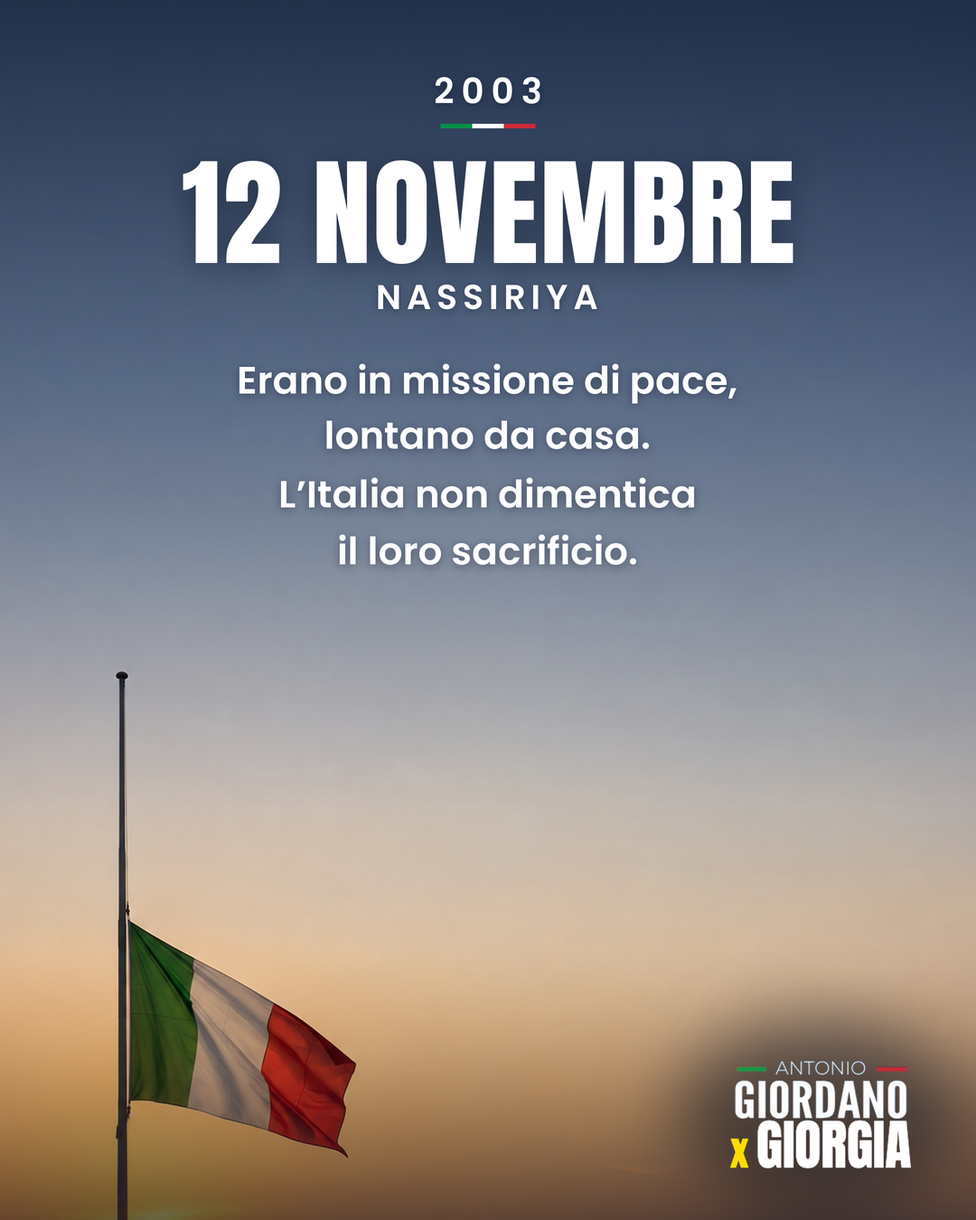
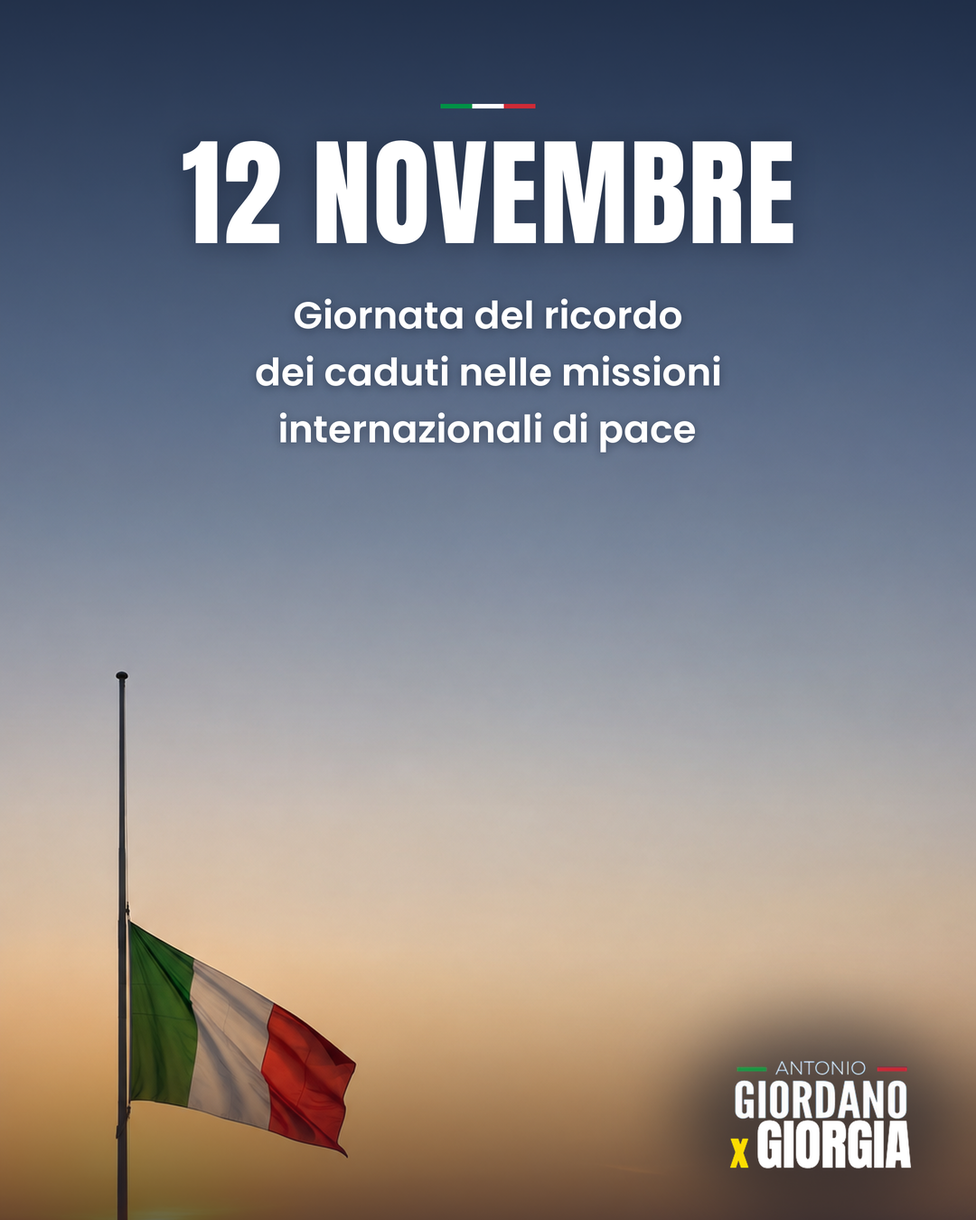
Piano video AG

Changed region(s): [[0.1833, 0.0622, 0.825, 0.4667]]

diff --git a/ag-piano/index.html b/ag-piano/index.html
@@ -86,7 +86,7 @@
 <script>
 const API = "https://script.google.com/macros/s/AKfycbzjr3jfim37stsWlkqhJ2VPJSxjqlUelqB06jXn0SmUQD_n9Tjvs1NOpkcq8gw_z12s/exec";
 const ETICHETTE = {pubblicato:'Pubblicato', pronto:'Pronto', montare:'Da montare', arrivo:'In arrivo', fermo:'Non si ripubblica', preparare:'Da preparare'};
-let stato = {"titolo": "Piano video · uno al giorno alle 13:00", "giorni": [{"titolo": "Mercoledì 11", "posti": [{"id": "me11-1", "ora": "13:00", "clip": {"titolo": "Socialismo USA · «quello che facciamo noi»", "nota": "Coffee Break, clip 5", "stato": "montare", "link": "https://drive.google.com/file/d/1HcMYuJhqfVNx6eUlo4WkuSOiRbY334NX/view"}}]}, {"titolo": "Giovedì 12", "posti": [{"id": "ev-1211", "ora": "Card", "clip": {"titolo": "Strage di Nassiriya · ricorrenza", "nota": "card pronte", "stato": "pronto", "bloccata": true, "evento": true, "link": "https://anteprima.italiatopweb.it/ag-file/ricorrenze/2026-11-12-nassiriya/", "cartella": "2026-11-12-nassiriya"}}, {"id": "gi12-1", "ora": "13:00", "clip": {"titolo": "Ricchi e populismo", "nota": "Corrente Alternata, GR1 04/11, clip 7 · audio", "stato": "pronto", "link": "https://drive.google.com/file/d/1x7e0mHgK9kqpWYvJAwjbsSDglceWnrHM/view"}}]}, {"titolo": "Venerdì 13", "posti": [{"id": "ve13-1", "ora": "13:00", "clip": null}]}, {"titolo": "Sabato 14", "posti": [{"id": "sa14-1", "ora": "13:00", "clip": null}]}, {"titolo": "In riserva", "riserva": true, "posti": [{"id": "r1", "ora": "", "clip": {"titolo": "Dopo il voto · Italia, USA e NATO", "nota": "Corrente Alternata, clip 5", "stato": "montare", "link": "https://drive.google.com/file/d/1t6I8kJFrz6hPRG6raNgOFs16UjAzwkPo/view"}}, {"id": "r2", "ora": "", "clip": {"titolo": "Vannacci · «a destra non l'abbiamo mai visto»", "nota": "Prisma, Radio Glox · audio · da valutare più avanti (Luca 07/11)", "stato": "montare", "link": "https://anteprima.italiatopweb.it/ag-file/prisma-vannacci-261104.mp3"}}, {"id": "r3", "ora": "", "clip": {"titolo": "Manovra · nella maggioranza si discute", "nota": "Prisma, Radio Glox · audio", "stato": "montare", "link": "https://drive.google.com/file/d/1HgAu0RjCXJuBtSsxsmDYyfv6Jon98R-A/view"}}, {"id": "r4", "ora": "", "clip": {"titolo": "Deformazione cognitiva", "nota": "Corrente Alternata · audio · dall'11/11, stesso tema di Guerra cognitiva", "stato": "montare", "link": "https://drive.google.com/file/d/1WDDEr0nzlL647d0kYZhlvtLduYlRIaiI/view"}}]}], "pubblicati": [{"titolo": "9 novembre 1989", "quando": "lun 9/11 · 14:01", "fb": "https://www.facebook.com/1154435890870280/posts/1160551210258748", "ig": "https://www.instagram.com/p/DfhZBx7lBKT/", "x": "https://x.com/Giordano__Ant/status/2119779268372660306"}, {"titolo": "Manovra · giovani e famiglie", "quando": "ven 6/11 · 14:09", "fb": "https://www.facebook.com/reel/1162848366253003", "ig": "https://www.instagram.com/reel/DfZsKx3nKq0/", "x": "https://x.com/Giordano__Ant/status/2118695122455916840"}, {"titolo": "Meloni · Le cose giuste nel momento giusto", "quando": "gio 5/11 · 10:05", "fb": "https://www.facebook.com/reel/1445057227816326", "ig": "https://www.instagram.com/reel/DfWqmNxnaz6/", "x": "https://x.com/Giordano__Ant/status/2118272431366209673"}, {"titolo": "Midterm USA · Cosa cambia per noi", "quando": "mer 4/11 · 17:55", "fb": "https://www.facebook.com/reel/2434864030253104", "ig": "https://www.instagram.com/reel/DfU7moID_1-/", "x": "https://x.com/Giordano__Ant/status/2118024507034083650"}, {"titolo": "Card 4 Novembre · Forze Armate", "quando": "mer 4/11 · 13:24", "fb": "https://www.facebook.com/1154435890870280/posts/1155160294131173", "ig": "https://www.instagram.com/p/DfUcReFDcfa/", "x": "https://x.com/Giordano__Ant/status/2117955550688444774"}, {"titolo": "Guerra cognitiva", "quando": "mer 4/11 · 10:38", "fb": "https://www.facebook.com/reel/1809075533746298/", "ig": "https://www.instagram.com/reel/DfUKutsghDZ/", "x": "https://x.com/Giordano__Ant/status/2117917504861315501"}, {"titolo": "Midterm (prima del voto)", "quando": "mar 3/11 · 18:30", "fb": "https://www.facebook.com/reel/1905529590880201/", "ig": "https://www.instagram.com/reel/DfSduWrgQ7_/", "x": "https://x.com/Giordano__Ant/status/2117678229246927253"}, {"titolo": "Riserve di gas", "quando": "mar 3/11 · 14:00", "fb": "https://www.facebook.com/reel/1151009277470797/", "ig": "https://www.instagram.com/reel/DfR8IrTkWat/", "x": "https://x.com/Giordano__Ant/status/2117606616744804792"}, {"titolo": "Patrimoniale", "quando": "lun 2/11 · 12:56", "fb": "https://www.facebook.com/reel/1839627413895111/", "ig": "https://www.instagram.com/reel/DfPQCNhjGkq/", "x": "https://x.com/Giordano__Ant/status/2117228622868034010"}], "versione": 36, "aggiornato": "2026-11-11T16:40:01.310Z", "ultimo": {"da": "r4", "a": "r3", "quando": "2026-11-11T16:30:44.798Z"}};
+let stato = {"titolo": "Piano video · uno al giorno alle 13:00", "giorni": [{"titolo": "Mercoledì 11", "posti": [{"id": "me11-1", "ora": "13:00", "clip": {"titolo": "Socialismo USA · «quello che facciamo noi»", "nota": "Coffee Break, clip 5", "stato": "montare", "link": "https://drive.google.com/file/d/1HcMYuJhqfVNx6eUlo4WkuSOiRbY334NX/view"}}]}, {"titolo": "Giovedì 12", "posti": [{"id": "ev-1211", "ora": "Card", "clip": {"titolo": "Strage di Nassiriya · ricorrenza", "nota": "card pronte", "stato": "pronto", "bloccata": true, "evento": true, "link": "https://anteprima.italiatopweb.it/ag-file/ricorrenze/2026-11-12-nassiriya/", "cartella": "2026-11-12-nassiriya"}}, {"id": "gi12-1", "ora": "13:00", "clip": null}]}, {"titolo": "Venerdì 13", "posti": [{"id": "ve13-1", "ora": "13:00", "clip": null}]}, {"titolo": "Sabato 14", "posti": [{"id": "sa14-1", "ora": "13:00", "clip": null}]}, {"titolo": "In riserva", "riserva": true, "posti": [{"id": "r1", "ora": "", "clip": {"titolo": "Dopo il voto · Italia, USA e NATO", "nota": "Corrente Alternata, clip 5", "stato": "montare", "link": "https://drive.google.com/file/d/1t6I8kJFrz6hPRG6raNgOFs16UjAzwkPo/view"}}, {"id": "r2", "ora": "", "clip": {"titolo": "Vannacci · «a destra non l'abbiamo mai visto»", "nota": "Prisma, Radio Glox · audio · da valutare più avanti (Luca 07/11)", "stato": "montare", "link": "https://anteprima.italiatopweb.it/ag-file/prisma-vannacci-261104.mp3"}}, {"id": "r3", "ora": "", "clip": {"titolo": "Manovra · nella maggioranza si discute", "nota": "Prisma, Radio Glox · audio", "stato": "montare", "link": "https://drive.google.com/file/d/1HgAu0RjCXJuBtSsxsmDYyfv6Jon98R-A/view"}}, {"id": "r4", "ora": "", "clip": {"titolo": "Deformazione cognitiva", "nota": "Corrente Alternata · audio · dall'11/11, stesso tema di Guerra cognitiva", "stato": "montare", "link": "https://drive.google.com/file/d/1WDDEr0nzlL647d0kYZhlvtLduYlRIaiI/view"}}]}], "pubblicati": [{"titolo": "9 novembre 1989", "quando": "lun 9/11 · 14:01", "fb": "https://www.facebook.com/1154435890870280/posts/1160551210258748", "ig": "https://www.instagram.com/p/DfhZBx7lBKT/", "x": "https://x.com/Giordano__Ant/status/2119779268372660306"}, {"titolo": "Manovra · giovani e famiglie", "quando": "ven 6/11 · 14:09", "fb": "https://www.facebook.com/reel/1162848366253003", "ig": "https://www.instagram.com/reel/DfZsKx3nKq0/", "x": "https://x.com/Giordano__Ant/status/2118695122455916840"}, {"titolo": "Meloni · Le cose giuste nel momento giusto", "quando": "gio 5/11 · 10:05", "fb": "https://www.facebook.com/reel/1445057227816326", "ig": "https://www.instagram.com/reel/DfWqmNxnaz6/", "x": "https://x.com/Giordano__Ant/status/2118272431366209673"}, {"titolo": "Midterm USA · Cosa cambia per noi", "quando": "mer 4/11 · 17:55", "fb": "https://www.facebook.com/reel/2434864030253104", "ig": "https://www.instagram.com/reel/DfU7moID_1-/", "x": "https://x.com/Giordano__Ant/status/2118024507034083650"}, {"titolo": "Card 4 Novembre · Forze Armate", "quando": "mer 4/11 · 13:24", "fb": "https://www.facebook.com/1154435890870280/posts/1155160294131173", "ig": "https://www.instagram.com/p/DfUcReFDcfa/", "x": "https://x.com/Giordano__Ant/status/2117955550688444774"}, {"titolo": "Guerra cognitiva", "quando": "mer 4/11 · 10:38", "fb": "https://www.facebook.com/reel/1809075533746298/", "ig": "https://www.instagram.com/reel/DfUKutsghDZ/", "x": "https://x.com/Giordano__Ant/status/2117917504861315501"}, {"titolo": "Midterm (prima del voto)", "quando": "mar 3/11 · 18:30", "fb": "https://www.facebook.com/reel/1905529590880201/", "ig": "https://www.instagram.com/reel/DfSduWrgQ7_/", "x": "https://x.com/Giordano__Ant/status/2117678229246927253"}, {"titolo": "Riserve di gas", "quando": "mar 3/11 · 14:00", "fb": "https://www.facebook.com/reel/1151009277470797/", "ig": "https://www.instagram.com/reel/DfR8IrTkWat/", "x": "https://x.com/Giordano__Ant/status/2117606616744804792"}, {"titolo": "Patrimoniale", "quando": "lun 2/11 · 12:56", "fb": "https://www.facebook.com/reel/1839627413895111/", "ig": "https://www.instagram.com/reel/DfPQCNhjGkq/", "x": "https://x.com/Giordano__Ant/status/2117228622868034010"}], "versione": 37, "aggiornato": "2026-11-11T16:58:10.560Z", "ultimo": {"da": "r4", "a": "r3", "quando": "2026-11-11T16:30:44.798Z"}};
 const TESTI = {"1klEdiMiUnjdyJhWDykBXf9HR2sEq2nfJ": "Senta, ma vediamo le conseguenze di quello che è successo oggi. Cambia qualcosa sullo scenario internazionale o per noi? Perché qualcuno prima ci chiedeva, ma adesso Trump cambierà atteggiamento ad esempio sulle guerre, sia sull'Iran che sull'Ucraina? Cioè, che succede concretamente? Perché qui tutti festeggiano. Io ieri leggevo un articolo di Politico, questa rivista online, insomma, diciamo non trampiana comunque, che diceva occhio a festeggiare, occhio a europei, a festeggiare per la vittoria dei democratici perché non è che cambierà granché.\nAnche in questo sono perfettamente d'accordo con lei e con Politico. Cioè, le elezioni americane hanno cambiato il Congresso, non è che cambiano il mondo. Trump resta Presidente fino a gennaio 2029, la politica estera resta nelle sue mani.\nLui stesso ha detto che può essere il Presidente del Veto anche se stamattina è stato molto più, come dire, ragionevole da questo punto di vista. Il tema è anche capire che cosa cambia per l'Italia e che cosa non cambia perché la Russia resta un predatore alle porte dell'Europa. Non è che cambia atteggiamento perché a Washington cambia la maggioranza.\nMosca non se ne frega niente dei risultati elettorali, ammesso e non concesso che non abbia avuto parte in questo. Guarda i rapporti di forza, guarda quanto siamo uniti, guarda quanto sappiamo difenderci. La guerra in Iran non si chiude col voto.\nDifficile per qualsiasi amministrazione che sia repubblicana o che sia democratica. Pesa sull'energia, sui prezzi, sul Mediterraneo e purtroppo per noi il Mediterraneo è casa nostra. E poi un'altra annotazione.\nChi pensa che un congresso democratico porti la pace fa un grosso errore perché se guardiamo la storia sono più le guerre aperte da Presidenti democratici di quelle aperte da Presidenti repubblicani. Quindi credo che i cambiamenti non ci saranno tanto nella sostanza, forse ci sarà qualche cambiamento nei toni.", "1DC28hnMYb3MkSSSIsZvdqfcP23fCIMd-": "Questo lo vedremo, anche se io ho visto già oggi Trump, insomma, che qualche... diciamo, non l'ha presa benissimo, cioè l'ha presa come uno che adesso si arrocca nella trincea, ha postato una foto di un cappellino rosso MAGA con scritto sopra Veto. Cioè, c'è il rischio di una radicalizzazione di Trump da questo punto di vista?\nPiù radicalizzato di quanto non fosse.\nNo, direi di no, è lo stesso Trump, è lo stesso Trump.\nOggi poi è particolarmente seccato, nervoso, credo che già sapesse dove si andava, però ricordiamoci che Trump è comunque un combattente, è quello che gli sparano nell'orecchio e dice fight, fight, fight. Da questo punto di vista, ecco, non mi preoccuperei del fatto che possa diventare più irascibile, che sarà comunque combattivo, sicuramente. Io penso che ci sarà una, come dire, un allentamento nei toni, perché poi qualche compromesso lo deve trovare, non può andare completamente contro il Congresso.", "1X7SISQDF3iCLM8yexoOGo2FyZCFK6EWm": "Qui ci sono tante incognite, ci sono delle letture però interessanti sui giornali italiani venendo al nostro lato. Repubblica oggi dice, parlando invece della questione russo-ucraina, mi fa sorridere perché c'è prima tutta una parte su Trump, in cui giustamente si rivarica la sconfitta, poi dopo c'è questo articolo, anche interessante per carità di Tommaso Ciriaco, che dice, vertici di pace su Kiev, ostilità di Parigi e gelo con Trump, così Meloni resta lontana dal tavolo. Allora io anche qui, facciamo capirci, con tutto quello che uno può pensare sulla guerra, però se Trump è il super cattivo e c'è gelo con Giorgia Meloni, allora ha fatto bene Meloni a prendere distanze, se Trump è un paria, uno tossico e quant'altro, allora va bene che la nostra Presidente del Consiglio metta un po' di spazio, invece no, invece si rimprovera l'assenza di un rapporto.\nCioè qui mi sembra che, Giordano giriamo sempre attorno agli stessi temi, cioè l'isolamento dell'Italia, comunque vada, noi siamo sempre quelli da.. isolati e non calcolati.\nChiaramente non è così, non lo siamo e siamo talmente non isolati che poi Meloni quando parla e rimprovera Trump lascia il segno, penso una per tutte, alla reazione all'attacco al Papa o alla reazione improvvisata sul tema di militari in Afghanistan che non avrebbero fatto il loro dovere. Meloni non lo manda a dire a nessuno.\nPoi c'è l'attitudine della persona. Trump è uno che s'alza la mattina e fa una cosa e il pomeriggio ne fa un'altra perché è nella sua natura, non perché sia cattiveria. Meloni è un leader riflessivo, pragmatico, sa di avere un grande potere di moral e soprattutto soft suasion.\nLo usa con le capacità di una persona che si è trovata a fare il capo del governo giovanissima, con una crescita vertiginosa, ha tratto gli insegnamenti da questa esperienza e oggi è un leader maturo che dice le cose giuste nel momento giusto, è sui tavoli su cui vale la pena di stare, non corre a mettere a sedersi su tutti i tavoli. Questo dovrebbe essere quello che noi dovremmo notare, avere un leader che non sta lì a correre per trovare un posticino in ogni tavolo, ma magari diventa il leader che promuove, dirige e presiede la riunione delle Nazioni Europee che vogliono delle decisioni diverse sul tavolo del Consiglio europeo.", "1HcMYuJhqfVNx6eUlo4WkuSOiRbY334NX": "Cosa vuol dire il socialismo in America? Perché poi non è proprio la stessa cosa.\nHa un'accezione un po' diversa forse da quella europea.\nL'importante è sottolinearlo.\nVuol dire semplicemente fare molta più attenzione, mettere molto più l'accento sulle condizioni di chi sta peggio. E quindi, come diceva prima Lia Quartapelle, a preoccuparsi delle soluzioni tipo gli asili, tipo i trasporti, tipo gli affitti. Queste cose così pragmatiche di cui per tanto tempo tutto il consesso democratico si era un po' dimenticato.\nCioè quello che facciamo noi in pratica, con la Finanziaria.\nDice Giordano, quello che facciamo noi al Governo.\nGli affitti, i giovani, le famiglie. Quello che facciamo noi.\nPossiamo discuterne\nAllora non è socialismo.", "1neHQFR6Z3BcoS3G2aM8lRp03fYhDdQpO": "Beh molto bello Talarico ha usato Davide contro Golia, si è messo nei panni di Davide e dice voi siete state la mia fionda, cioè è un discorso da predicatore, in effetti lui da lì viene e anche quando parla dell'amore non è generico amore, è appunto ama il prossimo tuo e dice una cosa interessante, con l'odio non si va da nessuna parte. poi ovviamente saranno slogan come sono slogan tutti qua Parole, per carità. Però non è che la sinistra in questi anni, quella americana, non abbia odiato. Anche lì forse si sono resi conto che i discorsi già da quest'estate, con il dibattito sull'UOC, che quei discorsi lì non funzionano, no? Sono d'accordo con lei, ma anche questa però divisione, cioè quello l'1%, la gente non capisce questa distinzione. Non è che odia solo Musk. comincerà a dodiare Tutti quelli che stanno bene economicamente, che sono la radice del successo degli Stati Uniti. Il benessere globale, la capacità degli Stati Uniti fa parte di tutte queste persone che ce l'hanno fatta in un sistema che ammira chi ce l'ha fatta. Se adesso partiamo col criterio che essere diventati ricchi è un peccato, e questo mi è sembrato un po' il taglio di Tararigo stamattina, ho dei seri dubbi per quella che può essere Non è che tu togli i Silicon Valley perché hanno vinto i democratici. E l'altro punto, non ho sentito una cosa concreta. E questo è l'unico elemento che accomuna i democratici con le nostre sinistre. Non ho sentito un ragionamento concreto. Cioè, come faccio a risolvere il problema del bilancio? Lo risolvo perché userò dei concimi migliori? Non ho sentito un ragionamento concreto. Non ho sentito niente di tutto questo e queste cose mi fanno sempre un po' paura. Quando un politico è così generico si chiama populismo. Sappiamo i danni che fa.", "1t6I8kJFrz6hPRG6raNgOFs16UjAzwkPo": "Ecco, ecco, io ho la sensazione che a questo proposito di fatto andiamo avanti come prima. Cioè, io leggo anche qui di nuovo un titolo di Repubblica. Stati Uniti la notte della rivincita della democrazia.\nVabbè, ok, però da domani mattina per noi cosa cambia? Niente.\nNo, non cambia niente. Non è che domani mattina l'America ricomincia a fare, a gestire la difesa europea.\nRicordiamoci che il primo a dire che gli europei erano degli scrocconi da questo punto è stato Obama. Io credo che noi abbiamo riaffermato un principio chiaro. Se la tua difesa la paga qualcun altro, poi non ti devi offendere se quell'altro vuole mettere, vuole venire a casa tua senza, e dettare regole.\nNoi non siamo contro l'America che sia democratica, che sia repubblicana. Saremo insieme all'America, saremo dentro la NATO. I toni con cui i democratici potrebbero rilanciare il tema della NATO non saranno poi comunque così lontani da quelli di Trump.\nPerché la verità è che loro sfrutteranno il fatto che Trump ci ha messo la faccia ed è stato diciamo molto assertivo, ma non è che domani mattina i democratici dicono ok, abbiamo scherzato, per quanto riguarda la NATO non è più il 5%, facciamo l'1 e mezzo. Non esiste questo percorso. In più, il problema che hanno loro con la Cina non è che cambia se invece di Trump con il Congresso repubblicano è Trump con il Congresso democratico.\nE ricordiamoci che il problema della Cina nasce con l'ammissione voluta da Clinton al WTO. Forse non eravamo ancora pronti.", "1SCrquixqGnR_g_YOyTtNFZ3MwOOwfgSG": "E poi c'è una riunione dei rappresentanti della Nato, Stati Uniti, Francia, Germania e Regno Unito e Nato questa settimana sull'Ucraina e ci sono le polemiche molto forti da parte, guardo l'onorevole Giordano, del Movimento 5 Stelle che dice c'è questa riunione, l'Italia non esiste, questa riunione è irrilevante.\nCome sempre, prima ci siamo preoccupati se Trump perde diventa più cattivo, mentre invece se avesse vinto sarebbe diventato più buono, io non le capisco queste cose. Trump è Trump, se perde o se vince non cambierà niente assolutamente.\nL'Europa, certo, l'Europa fatica, ci sono queste differenti organizzazioni, differenti convocazioni, diversi formati e vabbè non è una novità.", "10z88m8ihysl4KQqzH6gUBhlDENREeHxE": "Siete su Giornale Radio, la radio libera di informare. Vado a dare il benvenuto ad Antonio Giordano, deputato di Fratelli d'Italia, Segretario Generale del Partito Conservatore Europeo. Buongiorno, bentrovato\nBuongiorno direttore.\nAllora, qui sono già in festa anche alcuni nostri ascoltatori per il nuovo volto della sinistra globale, che lei sa essere James Tallarico, la sinistra riparte dal Texas. Però al di là di questo, preso atto della sconfitta sonora di Trump, dei repubblicani, dell'onda azzurra, democratica, tutto quello che volete, io faccio una notazione che un po' mi sta qua, fra lo sterno e lo stomaco. Evidentemente tutta questa svolta autoritaria non c'era, forse anche su questi temi, con queste uscite ogni volta, il fascismo, la tecnocrazia che domina.\nInsomma, evidentemente gli Stati Uniti sono una democrazia, al giro precedente Trump ha vinto, a questo ha preso una batosta, no?\nSono perfettamente d'accordo con lei e questo lo leggiamo anche in Europa, perché è precisamente quello che è successo in Ungheria, dove c'era un governo che era cosiddetto autoritario e poi c'è stato un cambio di schieramento senza nessun problema dal lato di chi ha preso il potere, magari con qualche problema per gli altri. E la stessa identica cosa in Polonia con quello che sta avvenendo in questi giorni. C'è stata alternanza di potere, tutto si è svolto con la massima tranquillità e poi il governo precedente è stato accusato di essere autoritario, ma quello attuale dice no io per mantenere lo Stato di diritto deve blindare la Corte Costituzionale.\nE' una deformazione cognitiva, noi assistiamo costantemente a questa deformazione cognitiva per cui chi è di destra o conservatore più in generale, chissà quali geni ha nel sangue che lo portano ad essere pericoloso. E' una cosa strana.", "1WDDEr0nzlL647d0kYZhlvtLduYlRIaiI": "Vado a dare il benvenuto ad Antonio Giordano, deputato di Fratelli d'Italia, segretario generale del Partito Conservatore europeo. Buongiorno, ben trovato. Buongiorno direttore. Allora, qui sono già in festa anche alcuni nostri ascoltatori per il nuovo volto della sinistra globale, che lei sa essere James Talarico, la sinistra riparte dal Texas. però al di là di questo io ho preso atto preso atto dalla sconfitta sonora Di Trump, dei Repubblicani, dell'onda azzurra, democratica, tutto quello che volete. Io faccio una notazione che un po' mi sta qua. Fra lo sterno e lo stomaco, diciamo. Evidentemente tutta questa svolta autoritaria non c'era. Forse anche su questi temi, con queste uscite ogni volta, dal fascismo, la tecnocrazia che domina, insomma evidentemente gli Stati Uniti sono la democrazia. La democrazia, il giro precedente Trump ha vinto, questo ha preso una batosta. Sono perfettamente d'accordo con lei e questo lo leggiamo anche in Europa, perché precisamente quello che è successo in Ungheria dove c'era un governo che era cosiddetto autoritario e poi c'è stato un cambio di schieramento senza nessun problema dal lato di chi ha preso il potere magari con qualche problema per gli altri e la stessa È una cosa in Polonia con quello che sta avvenendo in questi giorni. C'è stata alternanza di potere, tutto si è svolto con la massima tranquillità e poi il governo precedente è stato accusato di essere autoritario, ma quello attuale dice che per mantenere lo Stato di diritto devo blindare la Corte Costituzionale. È una deformazione cognitiva. noi assistiamo costantemente a questa deformazione cognitiva per cui chi è di Di destra o conservatore più in generale chissà quali geni ha nel sangue che lo portano ad essere pericoloso. È una cosa strana.", "1ZFEdKkByH8KjIz5oDjrU8ere_Mj9_LGd": "Appena arrivata questa notizia, nell'Unione Europea gli impianti di stoccaggio del gas affrontano l'avvio di questa stagione di riscaldamento con volumi ai minimi dal 2013, lo rileva l'Agenzia Internazionale dell'Energia. Questo rende l'Europa maggiormente dipendente dalle forniture globali di gas naturale liquefatto, proprio nel momento della massima domanda e dice l'Agenzia Internazionale dell'Energia che se l'inverno dovesse essere più freddo, più rigido del previsto, o se si verificasse un'interruzione nelle forniture, l'Europa si troverebbe in una condizione di particolare vulnerabilità, cioè come vedete tutto si tiene ma non c'è dubbio che l'Europa sia nel centro del mirino.\nApprofitto per fare il mio lavoro. Prima parlava dell'Agenzia Europea per il Gas. Ricordiamo che l'Italia è tra le Nazioni messe meglio, se non la migliore, in termini di riserve.\nQuesto è stato merito della diversificazione delle fonti e dell'attività che ha fatto il Governo Meloni.", "https://anteprima.italiatopweb.it/ag-file/prisma-vannacci-261104.mp3": "Le voglio fare un'ultima domanda, perché qui mi stanno arrivando diversi interventi anche degli ascoltatori che li sintetizzo. Sulla vicenda Vannacci qui da noi sono venuti i suoi colleghi, Bignami e altri. Tutti hanno tenuto un atteggiamento per dire, insomma, quella del generale Vannacci più che un aiuto al centrodestra sembra una mina vagante in mano al centrosinistra. Allora su questa alleanza con Vannacci siamo ai titoli di coda, come si suol dire? Cioè non ci sarà? Prego.\nVannacci si qualifica come la vera destra. Noi Vannacci a destra non l'abbiamo mai visto. Io sono di destra da sempre, non l'avevo mai visto.\n[…] La sporca dozzina, è venuta qui la Ravetto a dire che la sporca dozzina vincerà alla fine.\nGuardi, se Giorgia Meloni capisce che uno di noi si comporta in una maniera tale da far pensare che fa parte della forza, lo manda via. Quindi sono due modelli completamente differenti tra di loro. Qui c'è una grande selezione, di là c'è tutto quello che capita.\nPrendono su tutto, dice: Vannacci prende su tutto. E poi altri fatti: Vannacci vota per il 95 per cento dei casi con la sinistra e non vota la fiducia al governo, quindi attualmente è parte dell'opposizione.\n[…] ripeto, Meloni mai.\n(Trascrizione automatica della registrazione, da ricontrollare.)", "1x7e0mHgK9kqpWYvJAwjbsSDglceWnrHM": "Beh molto bello Talarico ha usato Davide contro Golia, si è messo nei panni di Davide e dice voi siete state la mia fionda, cioè è un discorso da predicatore, in effetti lui da lì viene e anche quando parla dell'amore non è generico amore, è appunto ama il prossimo tuo e dice una cosa interessante, con l'odio non si va da nessuna parte. poi ovviamente saranno slogan come sono slogan tutti qua Parole, per carità. Però non è che la sinistra in questi anni, quella americana, non abbia odiato. Anche lì forse si sono resi conto che i discorsi già da quest'estate, con il dibattito sull'UOC, che quei discorsi lì non funzionano, no? Sono d'accordo con lei, ma anche questa però divisione, cioè quello l'1%, la gente non capisce questa distinzione. Non è che odia solo Musk. comincerà a dodiare Tutti quelli che stanno bene economicamente, che sono la radice del successo degli Stati Uniti. Il benessere globale, la capacità degli Stati Uniti fa parte di tutte queste persone che ce l'hanno fatta in un sistema che ammira chi ce l'ha fatta. Se adesso partiamo col criterio che essere diventati ricchi è un peccato, e questo mi è sembrato un po' il taglio di Tararigo stamattina, ho dei seri dubbi per quella che può essere Non è che tu togli i Silicon Valley perché hanno vinto i democratici. E l'altro punto, non ho sentito una cosa concreta. E questo è l'unico elemento che accomuna i democratici con le nostre sinistre. Non ho sentito un ragionamento concreto. Cioè, come faccio a risolvere il problema del bilancio? Lo risolvo perché userò dei concimi migliori? Non ho sentito un ragionamento concreto. Non ho sentito niente di tutto questo e queste cose mi fanno sempre un po' paura. Quando un politico è così generico si chiama populismo. Sappiamo i danni che fa."};
 const aperti = new Set();
 function idDrive(l){const m=String(l||'').match(/\/d\/([^/]+)/);return m?m[1]:String(l||'');}

diff --git a/ag-file/ricorrenze/2026-11-12-nassiriya/index.html b/ag-file/ricorrenze/2026-11-12-nassiriya/index.html
@@ -1,1 +1,1 @@
-<!doctype html><meta charset="utf-8"><meta name="viewport" content="width=device-width,initial-scale=1"><title>Strage di Nassiriya · ricorrenza</title><style>body{margin:0;padding:24px 16px;font:16px/1.5 system-ui,sans-serif;background:#f4f5f7;color:#1a1d24}h1{font-size:22px;margin:0 0 16px}main{display:grid;grid-template-columns:repeat(auto-fit,minmax(280px,1fr));gap:20px;max-width:1100px;margin:auto}figure{margin:0;background:#fff;border-radius:12px;overflow:hidden;box-shadow:0 1px 4px #0001}img{width:100%;display:block}figcaption{padding:14px 16px}</style><main><h1 style="grid-column:1/-1">Strage di Nassiriya · ricorrenza</h1><figure><img src="card-1.png" alt="Card 1"><figcaption><b>Variante 1</b><br>12 novembre 2003, Nassiriya. Oggi, Giornata del ricordo dei caduti nelle missioni internazionali di pace, l’Italia onora chi ha servito il Paese lontano da casa.</figcaption></figure><figure><img src="card-2.png" alt="Card 2"><figcaption><b>Variante 2</b><br>12 novembre 2003, Nassiriya. Ricordiamo i 19 italiani uccisi nell’attentato alla base «Maestrale»: 12 carabinieri, 5 militari dell’Esercito e 2 civili.</figcaption></figure></main>
+<!doctype html><meta charset="utf-8"><meta name="viewport" content="width=device-width,initial-scale=1"><title>Strage di Nassiriya · ricorrenza</title><style>body{margin:0;padding:24px 16px;font:16px/1.5 system-ui,sans-serif;background:#f4f5f7;color:#1a1d24}h1{font-size:22px;margin:0 0 16px}main{display:grid;grid-template-columns:repeat(auto-fit,minmax(280px,1fr));gap:20px;max-width:1100px;margin:auto}figure{margin:0;background:#fff;border-radius:12px;overflow:hidden;box-shadow:0 1px 4px #0001}img{width:100%;display:block}figcaption{padding:14px 16px}</style><main><h1 style="grid-column:1/-1">Strage di Nassiriya · ricorrenza</h1><figure><img src="card-1.png" alt="Card 1"><figcaption><b>Variante 1</b><br>Oggi ricordiamo anche i 19 italiani che nel 2003 persero la vita a Nassiriya. L’Italia onora chi ha servito il Paese lontano da casa.</figcaption></figure><figure><img src="card-2.png" alt="Card 2"><figcaption><b>Variante 2</b><br>Oggi ricordiamo anche i 19 italiani che nel 2003 persero la vita a Nassiriya. L’Italia onora chi ha servito il Paese lontano da casa.</figcaption></figure><figure><img src="card-bandiera-blocco.png" alt="Card 3"><figcaption><b>Variante 3</b><br></figcaption></figure><figure><img src="card-bandiera-gerarchia.png" alt="Card 4"><figcaption><b>Variante 4</b><br></figcaption></figure><figure><img src="card-bandiera.png" alt="Card 5"><figcaption><b>Variante 5</b><br></figcaption></figure></main>
